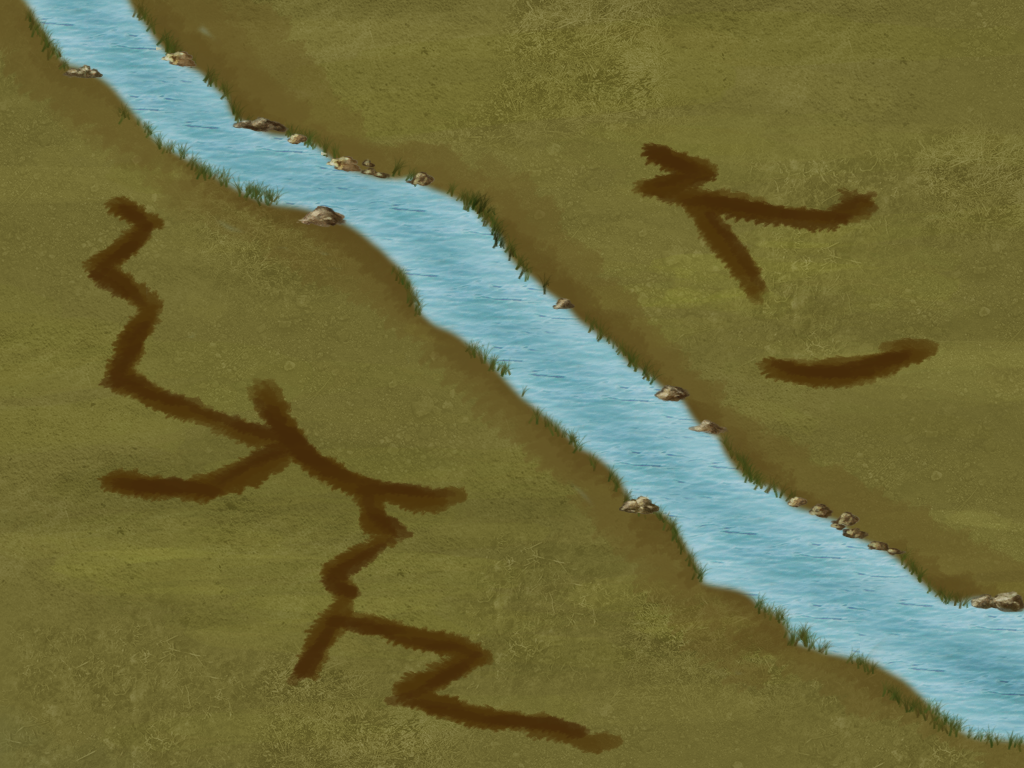
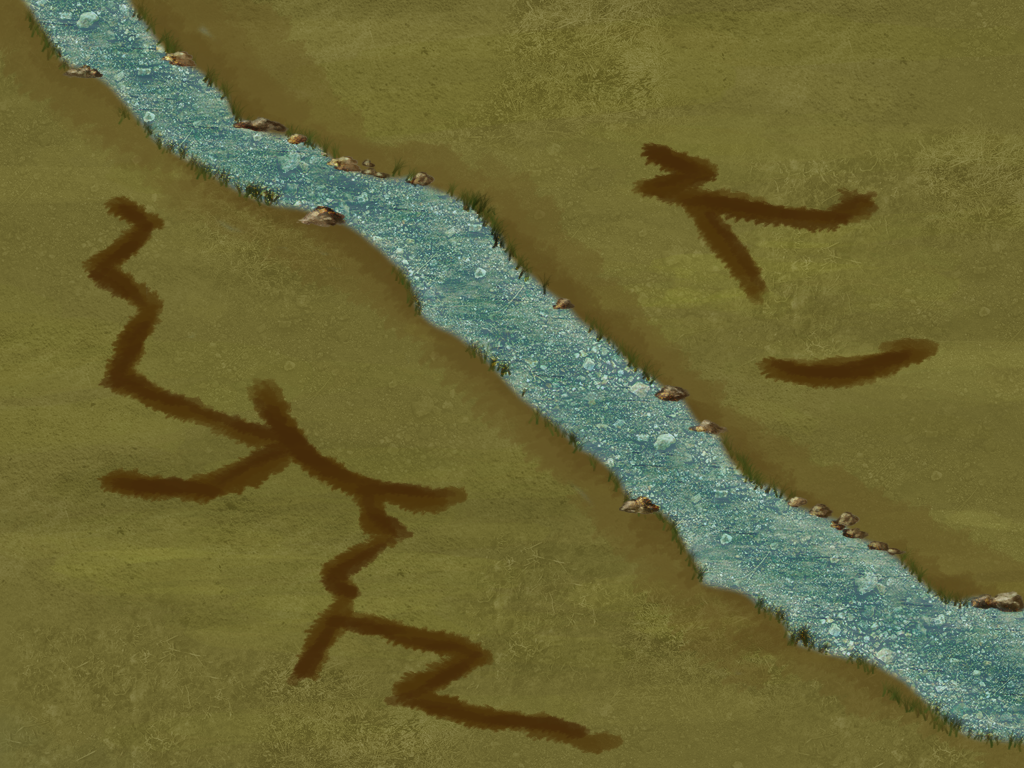
added levelbackgrounds

Changed region(s): [[0.0312, 0.0, 1.0, 0.9688]]

diff --git a/js/resources.js b/js/resources.js
@@ -21,8 +21,22 @@ resources = [
      src: "data/img/background/bg_level_07.png"},
 	{name: "bg_level_08", type: "image",
      src: "data/img/background/bg_level_08.png"},
-	 {name: "bg_level_09", type: "image",
+	{name: "bg_level_09", type: "image",
      src: "data/img/background/bg_level_09.png"},
+	{name: "bg_level_10", type: "image",
+     src: "data/img/background/bg_level_10.png"},
+	{name: "bg_level_11", type: "image",
+     src: "data/img/background/bg_level_11.png"},
+	{name: "bg_level_12", type: "image",
+     src: "data/img/background/bg_level_12.png"},
+	{name: "bg_level_13", type: "image",
+     src: "data/img/background/bg_level_13.png"},
+	 {name: "bg_level_16", type: "image",
+     src: "data/img/background/bg_level_16.png"},
+	{name: "bg_level_17", type: "image",
+     src: "data/img/background/bg_level_17.png"},
+	{name: "bg_level_18", type: "image",
+     src: "data/img/background/bg_level_18.png"},
 
 	{name: "bg_menu", type: "image", src: "data/img/background/bg_menu.png"},
 	

diff --git a/js/entities/ai.js b/js/entities/ai.js
@@ -76,10 +76,10 @@ Main.AI = Object.extend(
 				this.setSearchTargetStrategy(this.pointsStrategy);
 				break;
 			default:
-				console.log("Startegy not found! The Ai didn´t learn the '"+ strategy + "' strategy yet. The Ai now uses the points strategy.");
+				console.log("Startegy not found! The Ai didn´t learn the '"+ strategy +
+				"' strategy yet. The Ai now uses the points strategy.");
 				this.setSearchTargetStrategy(this.pointsStrategy);
 				break;
-				
 		}
 	},
 	// TODO: comment
@@ -200,11 +200,11 @@ Main.AI = Object.extend(
     // adds a building to the array of buildings owned by this AI
     gainBuilding: function(building)
     {
-		if (this.buildingAdvance()) {
+		/*if (this.buildingAdvance()) {
 			this.setAIStrategy("weakUser");
 		} else {
 			this.setAIStrategy(this.strategy)
-		}
+		}*/
 		this.currentTarget = this.searchTarget.search(this.player);
         this.attacking = false;
 		

diff --git a/js/searchtargetstrategy.js b/js/searchtargetstrategy.js
@@ -174,10 +174,8 @@ SearchPointsTargetStrategy.prototype.search = function(player)
 			if (points > maxPoints ) {
 				maxPoints = points;
 				currentTarget = buildings[i];
-				console.log("maxPoints "+ maxPoints);
 			}
 		}
 	}
-	console.log("currentTarget: " + currentTarget.name);
 	return currentTarget;
 };

diff --git a/js/constants.js b/js/constants.js
@@ -10,7 +10,7 @@ Constants =
 
     startMuted: false, // whether the game starts muted
 
-    allLevelsPlayable: false, // if true, all levels start playable
+    allLevelsPlayable: true, // if true, all levels start playable
 
     defaultParTime: 100, // default time to defeat levels in, in seconds
 

diff --git a/js/screens/level.js b/js/screens/level.js
@@ -83,7 +83,7 @@ Main.LevelScreen = me.ScreenObject.extend(
         this.pauseMenu = false;
         // AI defaults
         this.difficulty = 3;
-        this.strategy = "random";
+        this.strategy = "points";
 
         this.tiles = new Array(1);
         this.actions = [];
